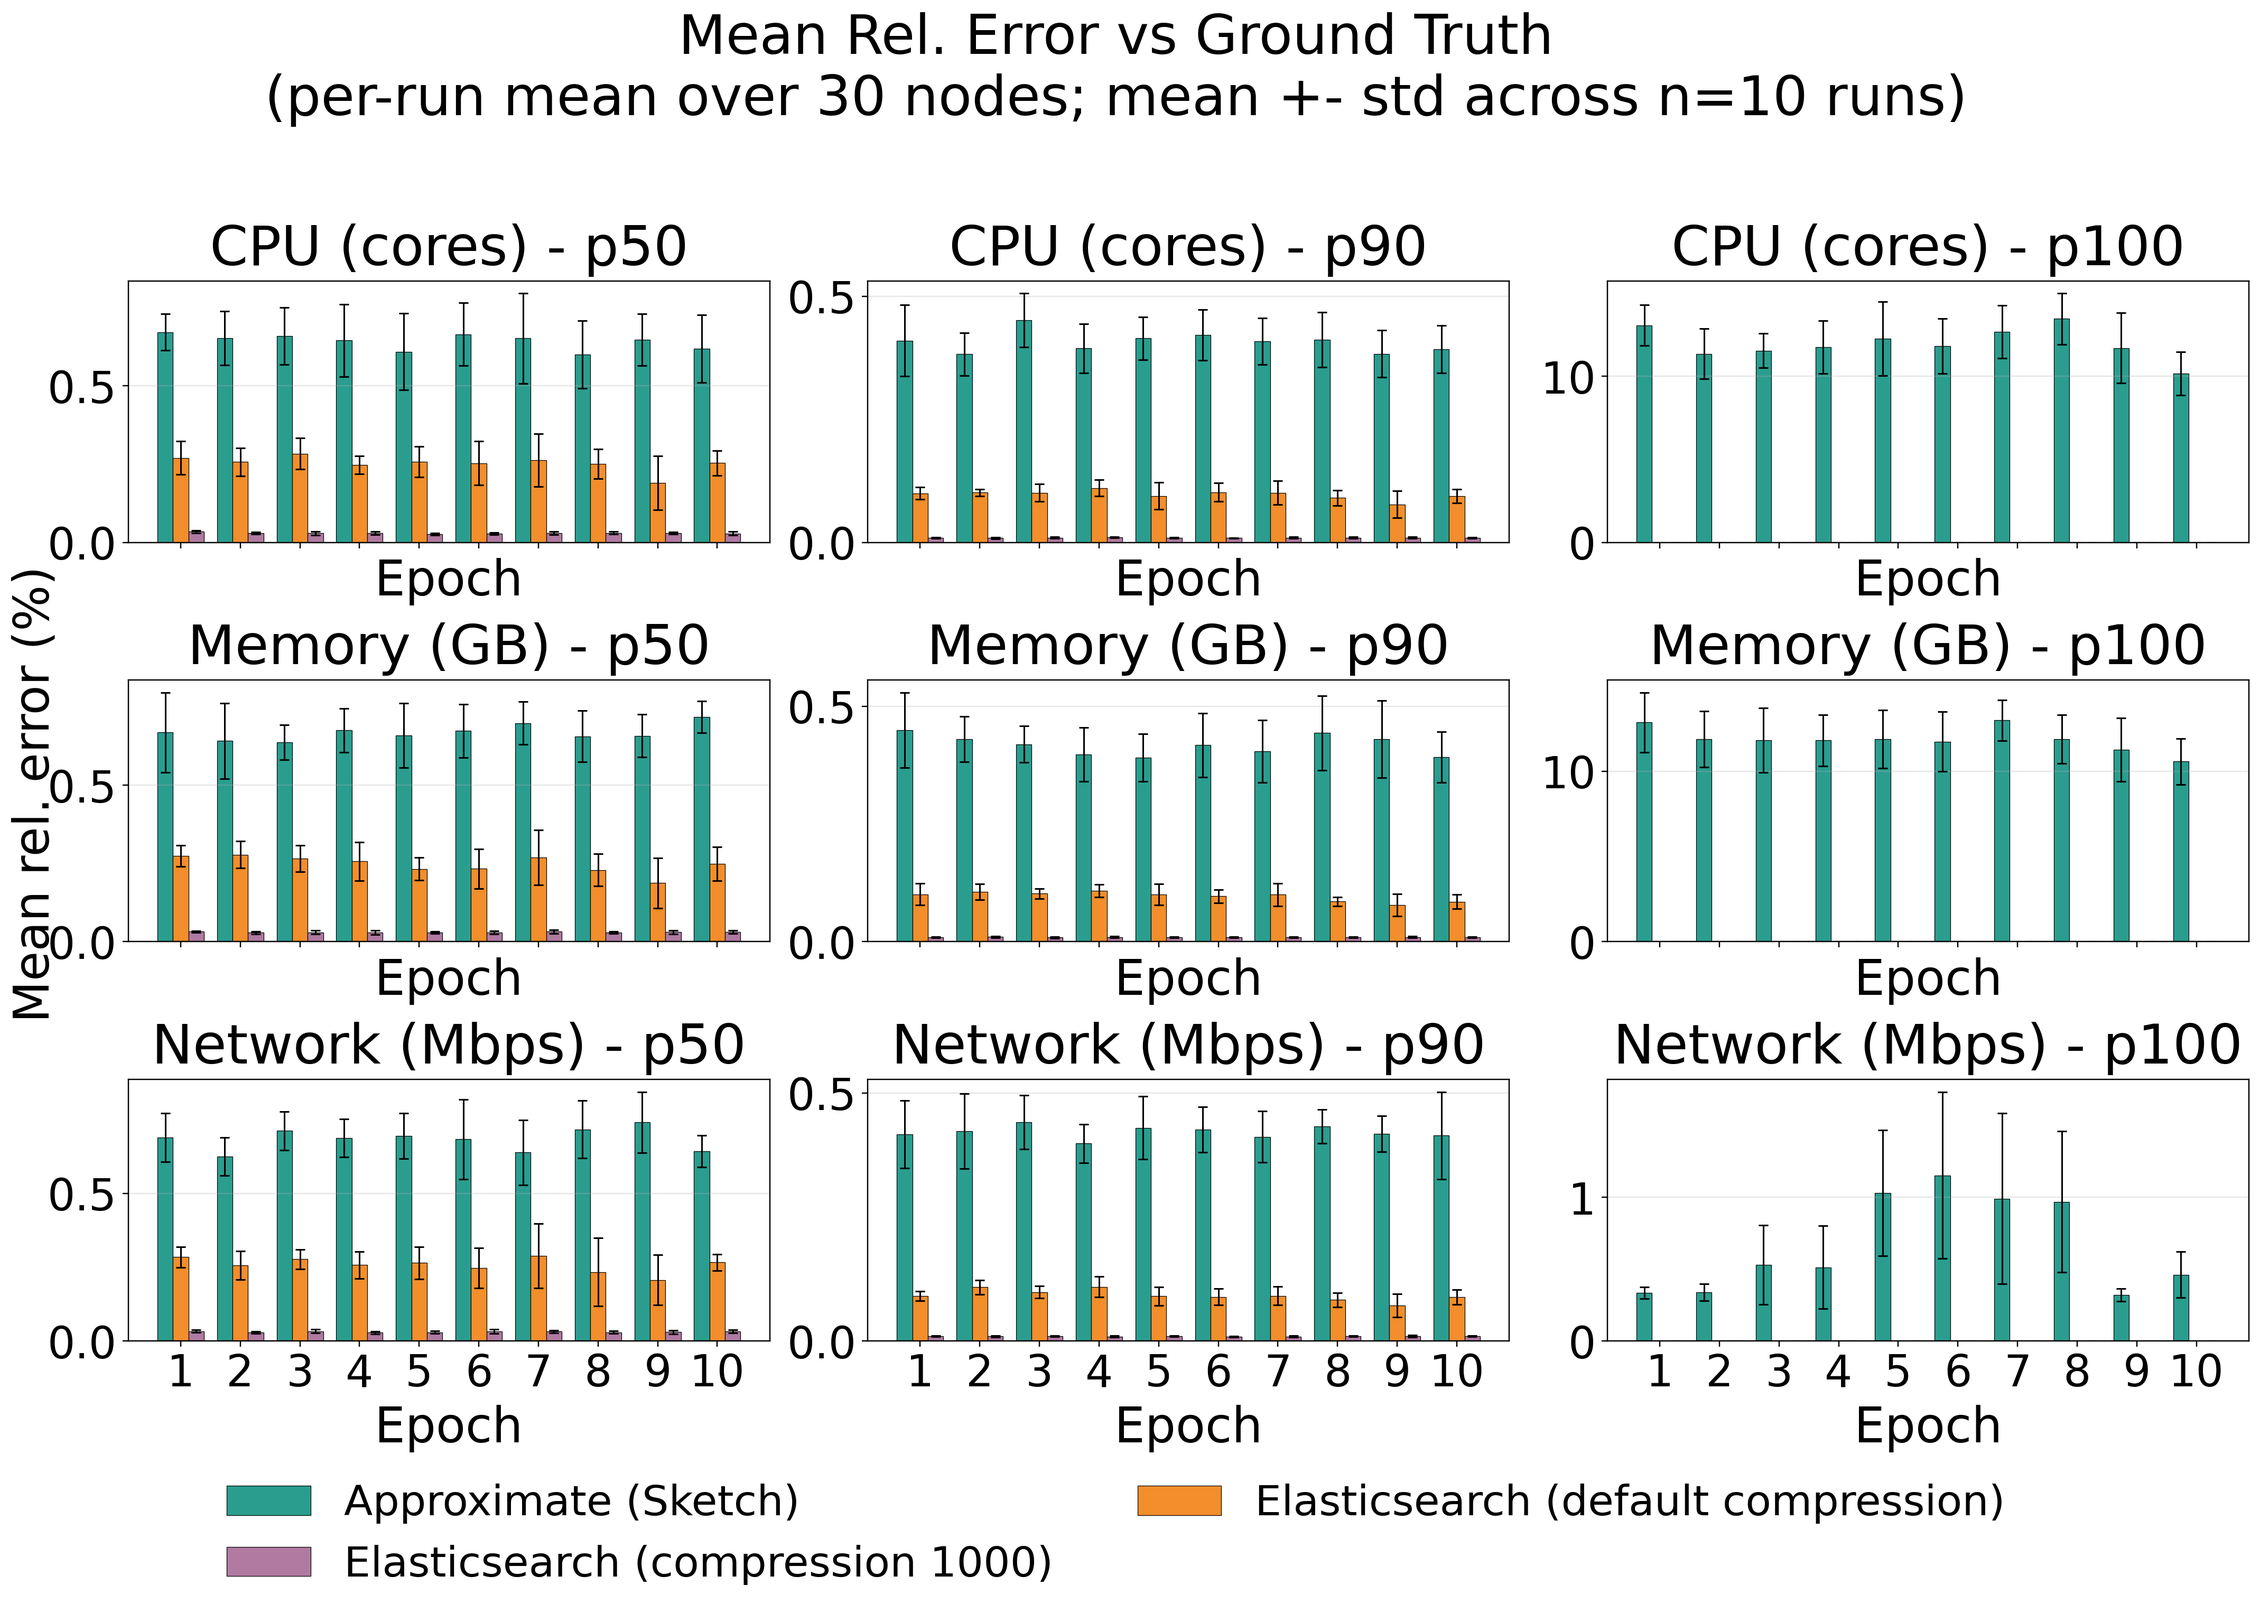
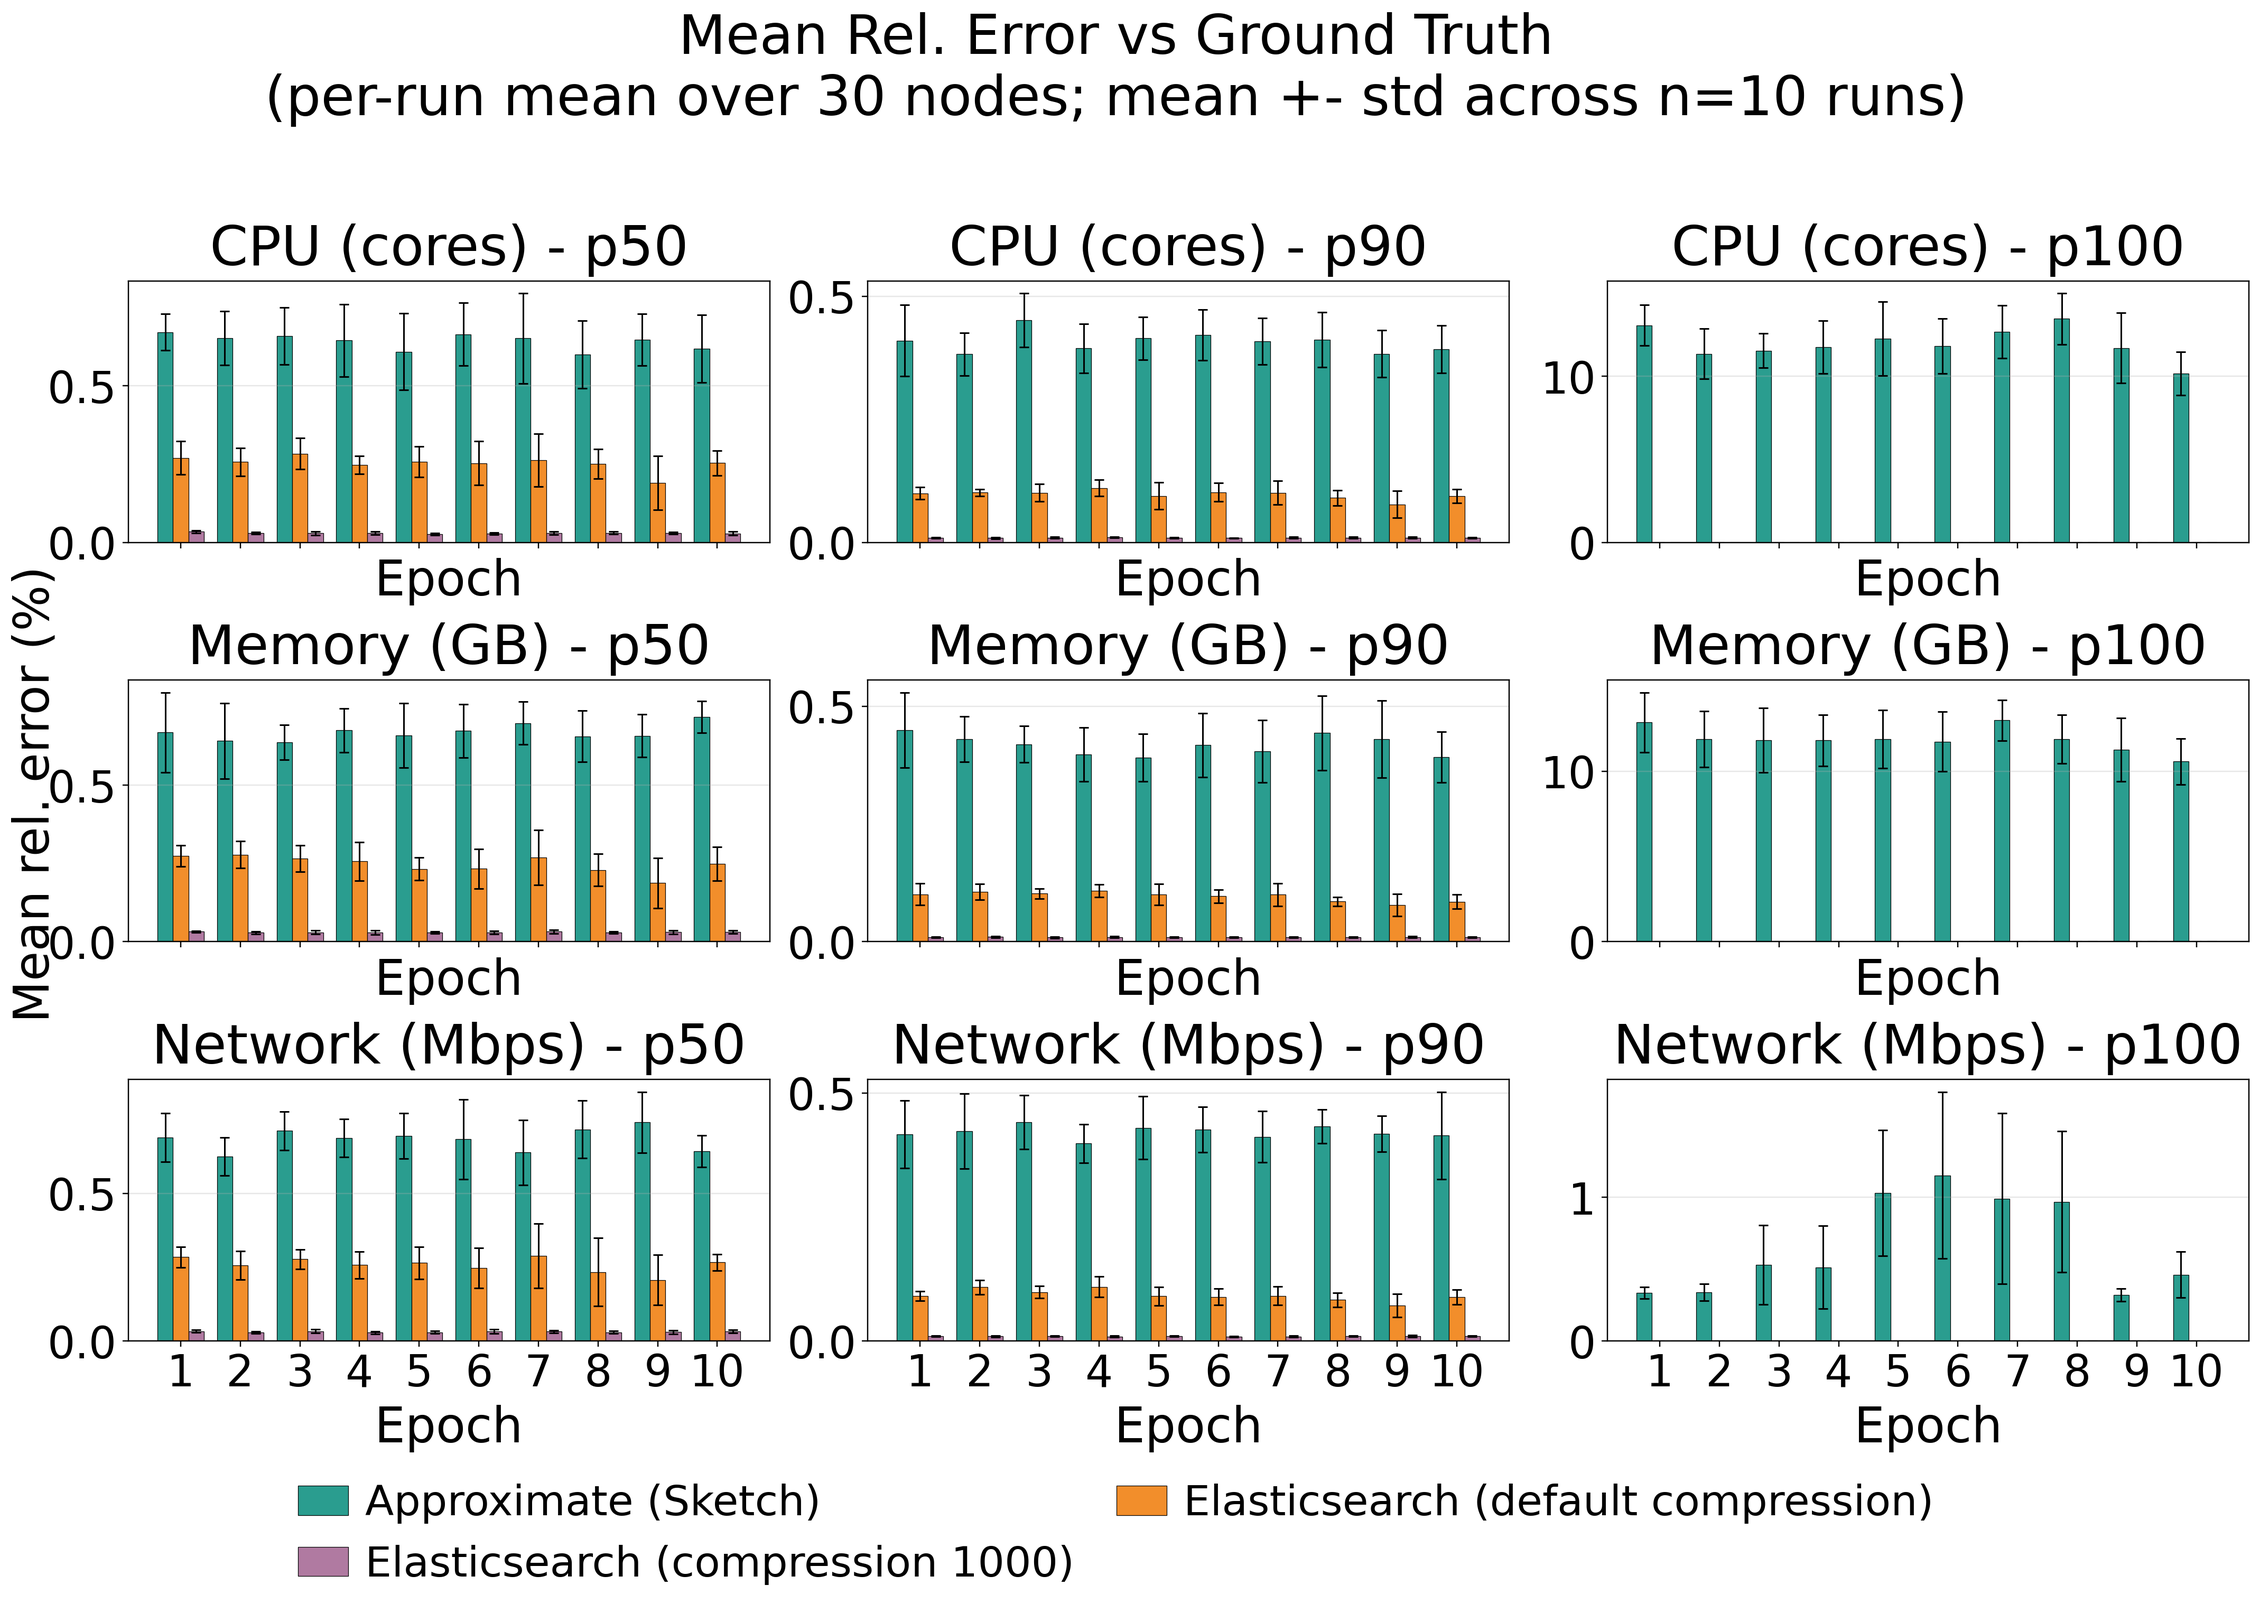
update

Changed region(s): [[0.0933, 0.9024, 0.4664, 0.9957], [0.4975, 0.9024, 0.8707, 0.9646]]

diff --git a/scripts/plot_query_accuracy_epoch.py b/scripts/plot_query_accuracy_epoch.py
@@ -211,6 +211,9 @@ def _shared_legend(fig, axes_with_handles):
         fontsize=LEGEND_FS,
         frameon=False,
         bbox_to_anchor=(0.5, -0.04),
+        columnspacing=1.0,
+        handletextpad=0.4,
+        handlelength=1.2,
     )
 
 
